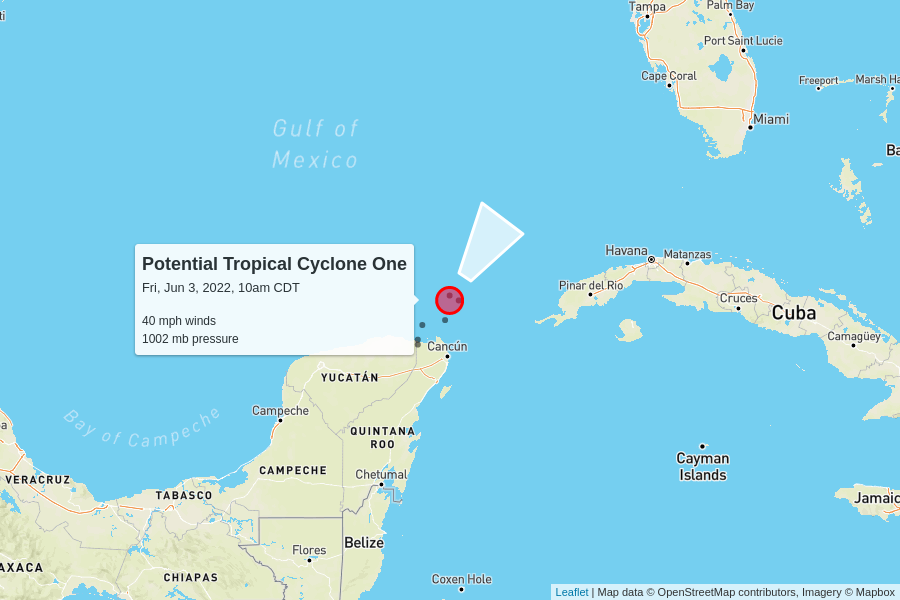
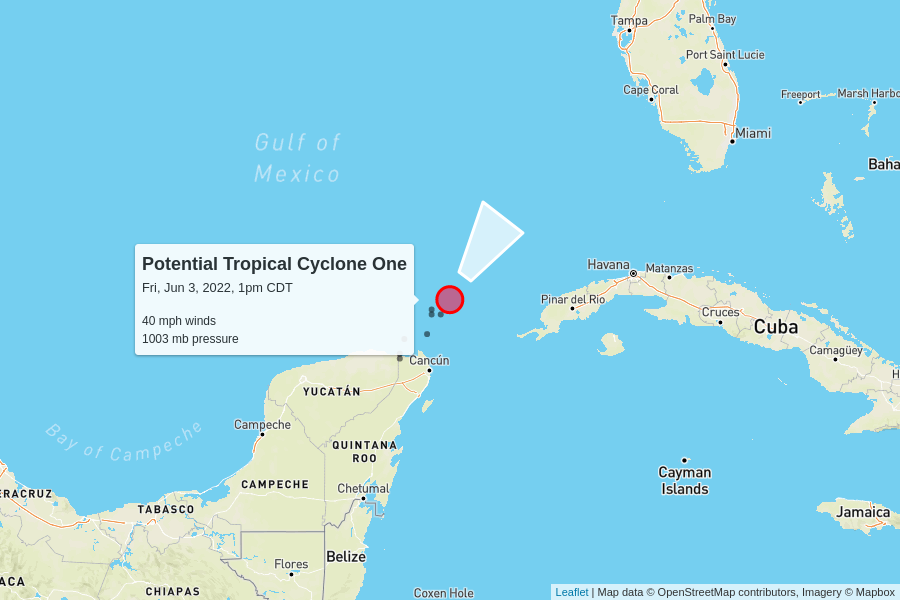
automatic update

diff --git a/docs/index.html b/docs/index.html
@@ -100,7 +100,7 @@
         <td colspan="6" class="storm category-0" >
           <h2>
             Potential Tropical Cyclone One
-            <p class="updated">last updated <span data-time>2022-06-03T15:00:00.000Z</span></p>
+            <p class="updated">last updated <span data-time>2022-06-03T18:00:00.000Z</span></p>
           </h2>
         </td>
       </tr>
@@ -116,7 +116,7 @@
       <tr>
         <td class="spacer"></td>
         <td>40 mph</td>
-        <td>1002 mb</td>
+        <td>1003 mb</td>
         <td>
           5 mph to the northeast
           <br/>
